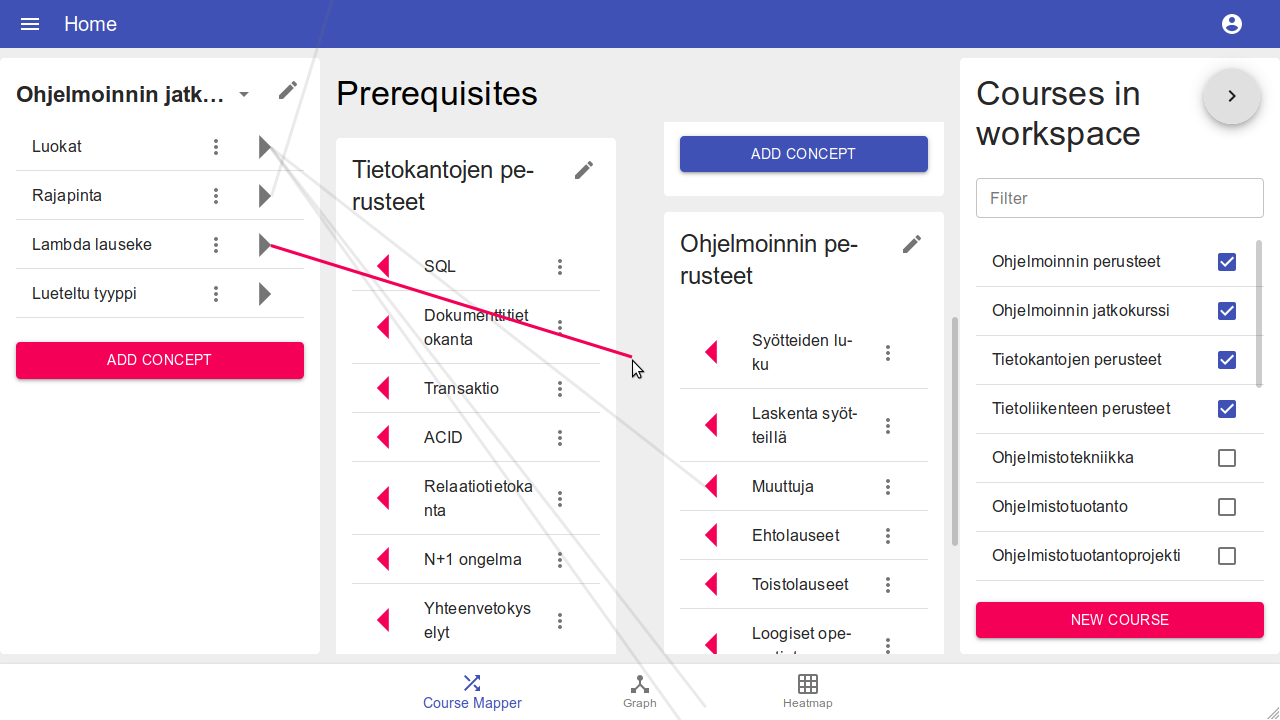
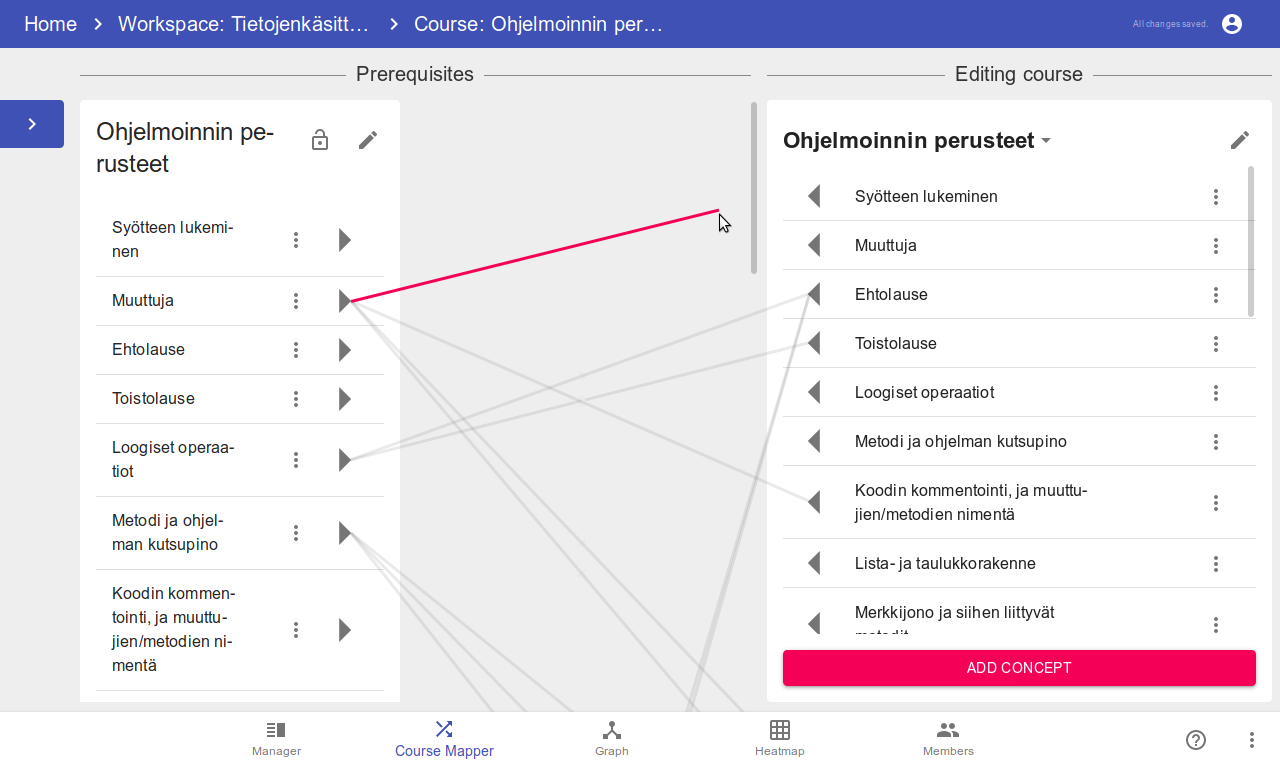
Add manager preview and update mapper preview

diff --git a/README.md b/README.md
@@ -13,6 +13,9 @@
 
 ## Previews
 
+### Workspace manager
+![Workspace manager preview](preview-manager.png)
+
 ### Concept mapper
 ![Concept mapper preview](preview-mapper.png)
 
